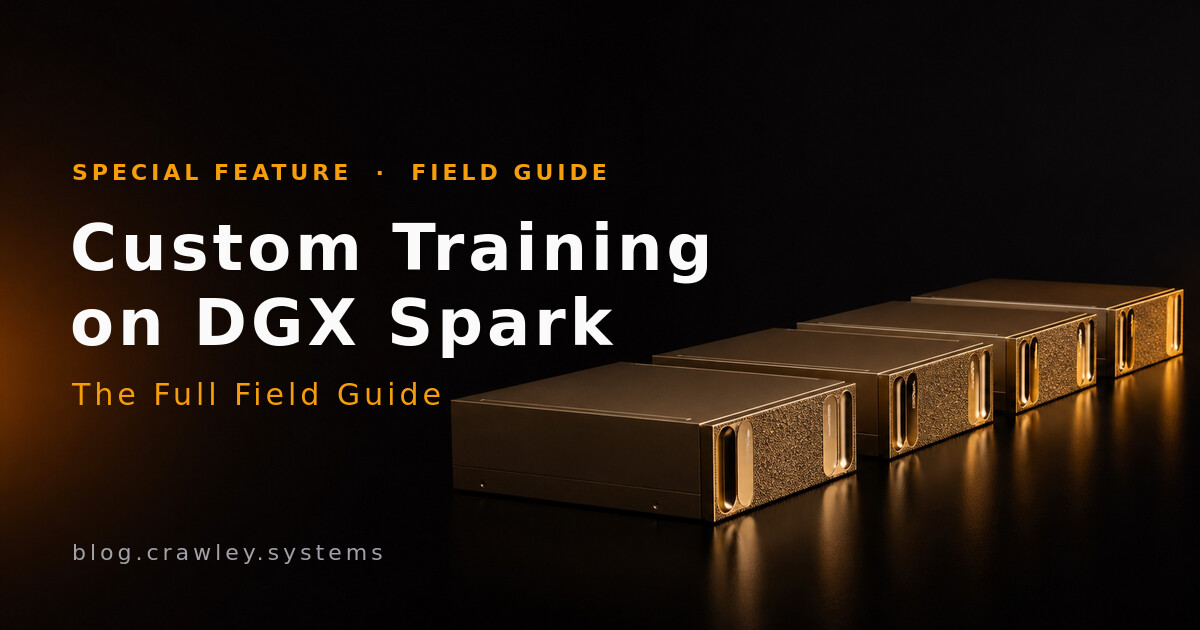
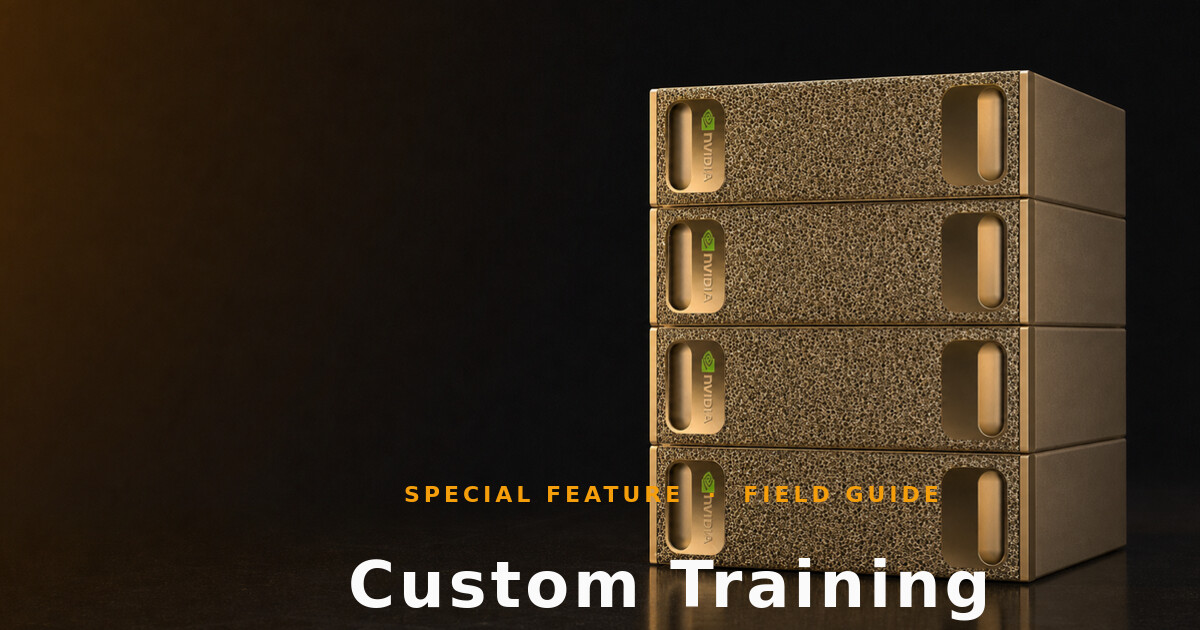
special: chart geometry fixes + reference-based spark artwork
- bar charts: bars now render in a fixed-width area per row so every row
  shares the same scale; value labels positioned after each bar's end
- 128 GB capacity line lands at exactly 128/136 of the bar area, stronger
  amber dashed stroke, brighter caption
- MoE bar extends across the card (natural-width label)
- hero + social banner regenerated from real DGX Spark reference photos:
  four units in a vertical stack, hero image now fills the right column

diff --git a/special/dgx-spark-training-field-guide.html b/special/dgx-spark-training-field-guide.html
@@ -66,12 +66,14 @@ header.hero{border-bottom:1px solid var(--grid);
   background:
     radial-gradient(ellipse 90% 130% at 70% -30%, var(--accent-glow), transparent),
     repeating-linear-gradient(90deg, transparent 0 79px, color-mix(in oklab, var(--grid) 55%, transparent) 79px 80px)}
-.hero-in{max-width:1120px;margin:0 auto;padding:72px 24px 48px;position:relative;
-  display:grid;grid-template-columns:minmax(0,1fr) 340px;gap:40px;align-items:center}
-.hero-img{width:100%;border-radius:16px;border:1px solid var(--ring);
-  box-shadow:0 0 48px var(--accent-glow);align-self:center}
+.hero-in{max-width:1120px;margin:0 auto;padding:56px 24px 40px;position:relative;
+  display:grid;grid-template-columns:minmax(0,1fr) clamp(360px,42%,520px);gap:40px;align-items:center}
+.hero-img{width:100%;max-height:none;align-self:center;
+  filter:drop-shadow(0 0 56px var(--accent-glow));
+  -webkit-mask-image:radial-gradient(ellipse 78% 86% at 50% 50%, #000 55%, transparent 88%);
+  mask-image:radial-gradient(ellipse 78% 86% at 50% 50%, #000 55%, transparent 88%)}
 .hero-note{max-width:62ch;color:var(--muted);font-size:.88em;margin-top:10px}
-@media(max-width:900px){.hero-in{grid-template-columns:minmax(0,1fr)}.hero-img{max-width:340px;order:-1}}
+@media(max-width:900px){.hero-in{grid-template-columns:minmax(0,1fr)}.hero-img{max-width:380px;max-height:480px;order:-1;justify-self:center}}
 .hero-kicker{display:flex;align-items:center;gap:8px;font-size:.78em;letter-spacing:.18em;text-transform:uppercase;color:var(--accent);font-weight:700}.hero-kicker .dot{width:8px;height:8px;border-radius:50%;background:var(--accent);box-shadow:0 0 10px var(--accent);animation:pulse 2.4s infinite}@keyframes pulse{0%,100%{opacity:1}50%{opacity:.35}}
 h1{font-size:clamp(1.7em,4vw,2.6em);line-height:1.15;margin:.35em 0 .5em;max-width:20ch;
   font-weight:750;letter-spacing:-.015em}
@@ -132,17 +134,21 @@ figure.viz svg{width:100%;height:auto;display:block}
 .hb{display:flex;flex-direction:column;gap:9px;position:relative;padding:4px 0}
 .hb-row{display:flex;align-items:center;gap:10px}
 .hb-label{flex:0 0 var(--hb-lab);font-size:.8em;color:var(--ink2);text-align:right;line-height:1.3}
-.hb-track{flex:1;display:flex;align-items:center;gap:2px;min-width:0}
+.hb-track{flex:1;position:relative;display:flex;align-items:center;min-width:0}
+.hb-bars{width:calc(100% - var(--hb-valw));display:flex;align-items:center;gap:2px}
 .hb-bar{height:14px;border-radius:0 4px 4px 0;min-width:3px;position:relative}
-.hb-track .hb-bar:not(:first-child){border-radius:2px 4px 4px 2px}
+.hb-bars .hb-bar:not(:first-child){border-radius:2px 4px 4px 2px}
 .hb-tall .hb-bar{height:22px}
 .hb-ghost{background:var(--grid)!important}
-.hb-val{font-size:.78em;color:var(--muted);white-space:nowrap;padding-left:6px;
+.hb-val{position:absolute;top:50%;transform:translateY(-50%);
+  font-size:.78em;color:var(--muted);white-space:nowrap;
   font-variant-numeric:tabular-nums}
+.hb-auto .hb-label{flex:0 0 auto}
 .hb-stacked{padding-bottom:26px}
-.hb-cap{position:absolute;top:0;bottom:22px;border-left:2px dashed var(--axis);pointer-events:none}
-.hb-cap span{position:absolute;bottom:-20px;left:-4px;transform:translateX(-100%);
-  font-size:.72em;color:var(--muted);white-space:nowrap}
+.hb-cap{position:absolute;top:0;bottom:26px;border-left:2px dashed var(--accent-dim);
+  opacity:.85;pointer-events:none}
+.hb-cap span{position:absolute;bottom:-20px;left:-6px;transform:translateX(-100%);
+  font-size:.74em;font-weight:600;color:var(--ink2);white-space:nowrap}
 @media(max-width:640px){:root{--hb-lab:110px}}
 
 .chips{display:flex;flex-wrap:wrap;gap:6px 16px;margin-top:12px;font-size:.78em;color:var(--ink2)}
@@ -263,7 +269,7 @@ figure.viz svg{width:100%;height:auto;display:block}
 <p>Every modern LLM is a <strong>transformer</strong>, an architecture from the 2017 paper <a href="https://arxiv.org/abs/1706.03762" target="_blank" rel="noopener"><em>Attention Is All You Need</em></a>. You don't need the math, but the vocabulary shows up everywhere, so here's the tour:</p>
 <ul><li><strong>Embedding</strong>: the lookup table that turns each token into a vector (a list of ~2,000–16,000 numbers) the network can process.</li><li><strong>Attention</strong>: the mechanism that lets each token "look at" every previous token and decide which ones matter for predicting what comes next. This is the magic ingredient, it's how the model connects "her" back to "Alice" from three paragraphs ago.</li><li><strong>Attention heads</strong>: attention runs many times in parallel with different learned "perspectives"; each parallel copy is a head. <strong>MHA</strong> (Multi-Head Attention) is the vanilla version; <strong>GQA</strong> (Grouped-Query Attention) and <strong>MLA</strong> (Multi-head Latent Attention, what Kimi/DeepSeek use, you've seen <code>TRITON_MLA</code> in the vLLM logs) are memory-saving refinements.</li><li><strong>FFN / MLP</strong> (Feed-Forward Network / Multi-Layer Perceptron): the other half of each layer, a plain "multiply by big matrices" block where most of the parameters live.</li><li><strong>Layers / blocks</strong>: one attention + one FFN = a block; models stack 24–100+ of them.</li><li><strong>KV cache</strong> (Key-Value cache): during generation, the model caches per-token attention data so it doesn't recompute the whole history for every new token. This is what eats your serving memory, vLLM's "KV cache: 763,840 tokens" log line is this.</li><li><strong>MoE</strong> (<strong>Mixture of Experts</strong>): instead of one FFN per layer, have many ("experts") and route each token to a few of them. You get a huge parameter count with modest compute per token, Kimi K2.6 is 519B parameters <em>total</em> but only activates ~30B per token. This is why it's fast <em>enough</em> on your Sparks. Dense models (Llama, Qwen-dense) activate everything, always.</li></ul>
 <aside class="callout res"><span class="co-icon">📚</span><span class="co-body"><span class="co-label">Deeper dive</span>Best visual explainer: <a href="https://jalammar.github.io/illustrated-transformer/" target="_blank" rel="noopener">The Illustrated Transformer</a> by Jay Alammar. Best interactive: <a href="https://bbycroft.net/llm" target="_blank" rel="noopener">LLM Visualization</a> by Brendan Bycroft, a 3D walkthrough of a real model's internals. For MoE: <a href="https://huggingface.co/blog/moe" target="_blank" rel="noopener">HF's MoE explainer</a>.</span></aside>
-<figure class="viz"><figcaption><span class="viz-title">Why MoE is fast <em>enough</em> here</span><span class="viz-sub">Mixture-of-Experts: huge total parameter count, modest per-token compute</span></figcaption><div class="hb"><div class="hb-row"><span class="hb-label">Kimi K2.6</span><span class="hb-track hb-tall"><span class="hb-bar" data-tip="Active per token: ~30B params (routed experts + shared)" style="width:5.8%;background:var(--s1)"></span><span class="hb-bar hb-ghost" data-tip="Parked experts: loaded in memory, idle for this token" style="width:94.2%"></span><span class="hb-val">519B total</span></span></div></div><div class="chips"><span class="chip"><i style="background:var(--s1)"></i>~30B active per token (5.8%)</span><span class="chip"><i class="chip-ghost"></i>489B parked (still resident in memory)</span></div><p class="viz-note">Only active weights are streamed per token, so decode speed scales with the 30B, while capacity scales with the 519B.</p></figure>
+<figure class="viz"><figcaption><span class="viz-title">Why MoE is fast <em>enough</em> here</span><span class="viz-sub">Mixture-of-Experts: huge total parameter count, modest per-token compute</span></figcaption><div class="hb hb-auto" style="--hb-valw:86px"><div class="hb-row"><span class="hb-label">Kimi K2.6</span><span class="hb-track hb-tall"><span class="hb-bars"><span class="hb-bar" data-tip="Active per token: ~30B params (routed experts + shared)" style="width:calc(5.8% - 1px);background:var(--s1)"></span><span class="hb-bar hb-ghost" data-tip="Parked experts: loaded in memory, idle for this token" style="width:calc(94.2% - 1px)"></span></span><span class="hb-val" style="left:calc(100% - var(--hb-valw) + 8px)">519B total</span></span></div></div><div class="chips"><span class="chip"><i style="background:var(--s1)"></i>~30B active per token (5.8%)</span><span class="chip"><i class="chip-ghost"></i>489B parked (still resident in memory)</span></div><p class="viz-note">Only active weights are streamed per token, so decode speed scales with the 30B, while capacity scales with the 519B.</p></figure>
 </section>
 <section class="part" id="part-ii-your-hardware-demystified"><div class="eyebrow">Part II</div><h2>Your hardware, demystified</h2>
 <h3 id="ii1-what-a-gb10-actually-is" class="">II.1 What a GB10 actually is</h3>
@@ -275,7 +281,7 @@ figure.viz svg{width:100%;height:auto;display:block}
 <p>Here's the insight that explains all of your benchmarking results: for LLM work, <strong>bandwidth is usually the bottleneck, not FLOPs</strong>. To generate one token, the model must read <em>every active weight</em> once. Kimi's ~30B active params in 4-bit ≈ 15 GB per token per node → 273/15 ≈ 18 tokens/s theoretical → you measured 15. The math checks out; the GPU's compute units spend most of their time waiting for memory.</p>
 <p>Training has the same character but reads <em>and writes</em> far more data per step (weights + gradients + optimizer state, see Part V.1). A datacenter <strong>H100</strong> has 3,350 GB/s, 12× your bandwidth, which is why we're not pretraining Llama here. But for LoRA finetunes of small-to-mid models, 273 GB/s is entirely serviceable.</p>
 <aside class="callout link"><span class="co-icon">🔗</span><span class="co-body"><span class="co-label">Reference</span>The canonical essay on this: <a href="https://horace.io/brrr_intro.html" target="_blank" rel="noopener">Making Deep Learning Go Brrrr From First Principles</a> by Horace He, explains compute-bound vs memory-bound vs overhead-bound intuitively.</span></aside>
-<figure class="viz"><figcaption><span class="viz-title">Bandwidth is the bottleneck, not FLOPs</span><span class="viz-sub">Memory bandwidth, GB/s, every active weight must be streamed once per generated token</span></figcaption><div class="tiles"><div class="tile"><span class="tile-v">~15 GB</span><span class="tile-l">weights read per token<br>(30B active × 0.5 B/param)</span></div><div class="tile"><span class="tile-v">≈ 18 tok/s</span><span class="tile-l">theoretical ceiling<br>273 GB/s ÷ 15 GB</span></div><div class="tile"><span class="tile-v">15 tok/s</span><span class="tile-l">measured decode<br>the math checks out</span></div></div><div class="hb"><div class="hb-row"><span class="hb-label">Spark fabric (RoCE)</span><span class="hb-track"><span class="hb-bar" data-tip="ConnectX-7 · 200 Gb/s ≈ 25 GB/s" style="width:0.75%;background:var(--sq2)"></span><span class="hb-val">25 GB/s</span></span></div><div class="hb-row"><span class="hb-label">GB10 unified LPDDR5X</span><span class="hb-track"><span class="hb-bar" data-tip="One Spark's memory bandwidth, the number that governs everything" style="width:8.15%;background:var(--sq4)"></span><span class="hb-val">273 GB/s</span></span></div><div class="hb-row"><span class="hb-label">H100 HBM3 (datacenter)</span><span class="hb-track"><span class="hb-bar" data-tip="12× the GB10, why nobody pretrains Llama on a Spark" style="width:100.00%;background:var(--sq6)"></span><span class="hb-val">3,350 GB/s</span></span></div></div><p class="viz-note">Same measure, ordered magnitude → one amber ramp. The compute units mostly wait on memory.</p></figure>
+<figure class="viz"><figcaption><span class="viz-title">Bandwidth is the bottleneck, not FLOPs</span><span class="viz-sub">Memory bandwidth, GB/s, every active weight must be streamed once per generated token</span></figcaption><div class="tiles"><div class="tile"><span class="tile-v">~15 GB</span><span class="tile-l">weights read per token<br>(30B active × 0.5 B/param)</span></div><div class="tile"><span class="tile-v">≈ 18 tok/s</span><span class="tile-l">theoretical ceiling<br>273 GB/s ÷ 15 GB</span></div><div class="tile"><span class="tile-v">15 tok/s</span><span class="tile-l">measured decode<br>the math checks out</span></div></div><div class="hb " style="--hb-valw:90px"><div class="hb-row"><span class="hb-label">Spark fabric (RoCE)</span><span class="hb-track"><span class="hb-bars"><span class="hb-bar" data-tip="ConnectX-7 · 200 Gb/s ≈ 25 GB/s" style="width:0.75%;background:var(--sq2)"></span></span><span class="hb-val" style="left:calc((100% - var(--hb-valw)) * 0.0075 + 8px)">25 GB/s</span></span></div><div class="hb-row"><span class="hb-label">GB10 unified LPDDR5X</span><span class="hb-track"><span class="hb-bars"><span class="hb-bar" data-tip="One Spark's memory bandwidth, the number that governs everything" style="width:8.15%;background:var(--sq4)"></span></span><span class="hb-val" style="left:calc((100% - var(--hb-valw)) * 0.0815 + 8px)">273 GB/s</span></span></div><div class="hb-row"><span class="hb-label">H100 HBM3 (datacenter)</span><span class="hb-track"><span class="hb-bars"><span class="hb-bar" data-tip="12× the GB10, why nobody pretrains Llama on a Spark" style="width:100.00%;background:var(--sq6)"></span></span><span class="hb-val" style="left:calc((100% - var(--hb-valw)) * 1.0000 + 8px)">3,350 GB/s</span></span></div></div><p class="viz-note">Same measure, ordered magnitude → one amber ramp. The compute units mostly wait on memory.</p></figure>
 <h3 id="ii3-sm-121-cuda-and-why-youve-been-patching-kernels" class="">II.3 sm_121, CUDA, and why you've been patching kernels</h3>
 <ul><li><strong>CUDA</strong> (<strong>Compute Unified Device Architecture</strong>): NVIDIA's programming platform for GPUs. Everything, PyTorch, vLLM, our training, compiles down to CUDA.</li><li><strong>Compute capability / sm_XX</strong>: each GPU generation has a version number ("sm" = streaming multiprocessor). H100 = sm_90, RTX 5090 = sm_120, <strong>GB10 = sm_121</strong>. Libraries ship pre-compiled kernels per sm; sm_121 is new and niche enough that you've already lived the consequences, the Triton shared-memory patch and the DeepGEMM sm_121 blocker from the Kimi/GLM saga were both "nobody compiled for this chip yet" problems. Expect one or two of the same in training-land (bitsandbytes, flash-attention), which is why validating the stack is Stage 0 of the curriculum.</li><li><strong>Kernel</strong>: a small GPU program (e.g., "multiply these matrices"). <strong>Triton</strong> is a Python-like language for writing them (used heavily inside vLLM and PyTorch).</li></ul>
 <h3 id="ii4-precision-formats-fp32-nvfp4" class="">II.4 Precision formats: FP32 → NVFP4</h3>
@@ -283,10 +289,10 @@ figure.viz svg{width:100%;height:auto;display:block}
 <div class="table-wrap"><table><thead><tr><th>Format</th><th>Bytes/param</th><th>Role</th></tr></thead><tbody><tr><td><strong>FP32</strong> (single precision)</td><td>4</td><td>Classic default; today only optimizer internals</td></tr><tr><td><strong>TF32</strong></td><td>~2.4 effective</td><td>NVIDIA's FP32-lite for matmuls; automatic</td></tr><tr><td><strong>FP16</strong> (half)</td><td>2</td><td>Older mixed-precision; can overflow (numeric range too small)</td></tr><tr><td><strong>BF16</strong> (bfloat16, "brain float")</td><td>2</td><td><strong>The training standard.</strong> Same range as FP32, less precision, stable and fast</td></tr><tr><td><strong>FP8</strong></td><td>1</td><td>Serving + cutting-edge training; your KV caches run fp8</td></tr><tr><td><strong>FP4 / NVFP4</strong></td><td>0.5</td><td>4-bit; <strong>NVFP4</strong> is NVIDIA's block-scaled variant, every model you serve (Kimi, GLM, V4-Flash) is NVFP4-quantized</td></tr><tr><td><strong>INT8/INT4</strong></td><td>1 / 0.5</td><td>Integer quantization (GPTQ/AWQ world, see Part VI)</td></tr><tr><td><strong>NF4</strong> (NormalFloat-4)</td><td>0.5</td><td>4-bit format designed for QLoRA finetuning (Part V.4)</td></tr></tbody></table></div>
 <p><strong>Mixed precision</strong> = train with bf16 weights/activations but keep a master FP32 copy inside the optimizer for stability. Frameworks do this automatically; you'll just see <code>bf16=True</code> in configs.</p>
 <aside class="callout link"><span class="co-icon">🔗</span><span class="co-body"><span class="co-label">Reference</span>Short and good: <a href="https://huggingface.co/docs/transformers/perf_train_gpu_one#mixed-precision" target="_blank" rel="noopener">HF's mixed-precision docs</a> · <a href="https://developer.nvidia.com/blog/introducing-nvfp4-for-efficient-and-accurate-low-precision-inference/" target="_blank" rel="noopener">NVIDIA on NVFP4</a></span></aside>
-<figure class="viz"><figcaption><span class="viz-title">The precision zoo, by weight</span><span class="viz-sub">Bytes per parameter, halve the bytes, halve the bandwidth per token</span></figcaption><div class="hb"><div class="hb-row"><span class="hb-label">FP32</span><span class="hb-track"><span class="hb-bar" data-tip="FP32: Classic default; today only optimizer internals" style="width:100.00%;background:var(--sq7)"></span><span class="hb-val">4 B/param · 8B model ≈ 32 GB</span></span></div><div class="hb-row"><span class="hb-label">TF32</span><span class="hb-track"><span class="hb-bar" data-tip="TF32: NVIDIA's FP32-lite for matmuls (effective bytes)" style="width:60.00%;background:var(--sq6)"></span><span class="hb-val">2.4 B/param</span></span></div><div class="hb-row"><span class="hb-label">BF16</span><span class="hb-track"><span class="hb-bar" data-tip="BF16: The training standard, FP32 range, less precision" style="width:50.00%;background:var(--sq5)"></span><span class="hb-val">2 B/param · 8B model ≈ 16 GB</span></span></div><div class="hb-row"><span class="hb-label">FP16</span><span class="hb-track"><span class="hb-bar" data-tip="FP16: Older mixed precision; can overflow" style="width:50.00%;background:var(--sq5)"></span><span class="hb-val">2 B/param · 8B model ≈ 16 GB</span></span></div><div class="hb-row"><span class="hb-label">FP8</span><span class="hb-track"><span class="hb-bar" data-tip="FP8: Serving + cutting-edge training; your KV caches" style="width:25.00%;background:var(--sq4)"></span><span class="hb-val">1 B/param · 8B model ≈ 8 GB</span></span></div><div class="hb-row"><span class="hb-label">INT8</span><span class="hb-track"><span class="hb-bar" data-tip="INT8: Integer quantization (GPTQ/AWQ world)" style="width:25.00%;background:var(--sq4)"></span><span class="hb-val">1 B/param · 8B model ≈ 8 GB</span></span></div><div class="hb-row"><span class="hb-label">NVFP4</span><span class="hb-track"><span class="hb-bar" data-tip="NVFP4: NVIDIA block-scaled 4-bit, your serving standard" style="width:12.50%;background:var(--sq2)"></span><span class="hb-val">0.5 B/param · 8B model ≈ 4 GB</span></span></div><div class="hb-row"><span class="hb-label">NF4</span><span class="hb-track"><span class="hb-bar" data-tip="NF4: NormalFloat-4, the QLoRA finetuning format" style="width:12.50%;background:var(--sq2)"></span><span class="hb-val">0.5 B/param · 8B model ≈ 4 GB</span></span></div><div class="hb-row"><span class="hb-label">INT4</span><span class="hb-track"><span class="hb-bar" data-tip="INT4: Integer 4-bit" style="width:12.50%;background:var(--sq2)"></span><span class="hb-val">0.5 B/param · 8B model ≈ 4 GB</span></span></div></div><p class="viz-note">One hue, light→dark with magnitude. An 8B model is a 32 GB download in FP32 and a 4 GB one in NVFP4.</p></figure>
+<figure class="viz"><figcaption><span class="viz-title">The precision zoo, by weight</span><span class="viz-sub">Bytes per parameter, halve the bytes, halve the bandwidth per token</span></figcaption><div class="hb " style="--hb-valw:200px"><div class="hb-row"><span class="hb-label">FP32</span><span class="hb-track"><span class="hb-bars"><span class="hb-bar" data-tip="FP32: Classic default; today only optimizer internals" style="width:100.00%;background:var(--sq7)"></span></span><span class="hb-val" style="left:calc((100% - var(--hb-valw)) * 1.0000 + 8px)">4 B/param · 8B model ≈ 32 GB</span></span></div><div class="hb-row"><span class="hb-label">TF32</span><span class="hb-track"><span class="hb-bars"><span class="hb-bar" data-tip="TF32: NVIDIA's FP32-lite for matmuls (effective bytes)" style="width:60.00%;background:var(--sq6)"></span></span><span class="hb-val" style="left:calc((100% - var(--hb-valw)) * 0.6000 + 8px)">2.4 B/param</span></span></div><div class="hb-row"><span class="hb-label">BF16</span><span class="hb-track"><span class="hb-bars"><span class="hb-bar" data-tip="BF16: The training standard, FP32 range, less precision" style="width:50.00%;background:var(--sq5)"></span></span><span class="hb-val" style="left:calc((100% - var(--hb-valw)) * 0.5000 + 8px)">2 B/param · 8B model ≈ 16 GB</span></span></div><div class="hb-row"><span class="hb-label">FP16</span><span class="hb-track"><span class="hb-bars"><span class="hb-bar" data-tip="FP16: Older mixed precision; can overflow" style="width:50.00%;background:var(--sq5)"></span></span><span class="hb-val" style="left:calc((100% - var(--hb-valw)) * 0.5000 + 8px)">2 B/param · 8B model ≈ 16 GB</span></span></div><div class="hb-row"><span class="hb-label">FP8</span><span class="hb-track"><span class="hb-bars"><span class="hb-bar" data-tip="FP8: Serving + cutting-edge training; your KV caches" style="width:25.00%;background:var(--sq4)"></span></span><span class="hb-val" style="left:calc((100% - var(--hb-valw)) * 0.2500 + 8px)">1 B/param · 8B model ≈ 8 GB</span></span></div><div class="hb-row"><span class="hb-label">INT8</span><span class="hb-track"><span class="hb-bars"><span class="hb-bar" data-tip="INT8: Integer quantization (GPTQ/AWQ world)" style="width:25.00%;background:var(--sq4)"></span></span><span class="hb-val" style="left:calc((100% - var(--hb-valw)) * 0.2500 + 8px)">1 B/param · 8B model ≈ 8 GB</span></span></div><div class="hb-row"><span class="hb-label">NVFP4</span><span class="hb-track"><span class="hb-bars"><span class="hb-bar" data-tip="NVFP4: NVIDIA block-scaled 4-bit, your serving standard" style="width:12.50%;background:var(--sq2)"></span></span><span class="hb-val" style="left:calc((100% - var(--hb-valw)) * 0.1250 + 8px)">0.5 B/param · 8B model ≈ 4 GB</span></span></div><div class="hb-row"><span class="hb-label">NF4</span><span class="hb-track"><span class="hb-bars"><span class="hb-bar" data-tip="NF4: NormalFloat-4, the QLoRA finetuning format" style="width:12.50%;background:var(--sq2)"></span></span><span class="hb-val" style="left:calc((100% - var(--hb-valw)) * 0.1250 + 8px)">0.5 B/param · 8B model ≈ 4 GB</span></span></div><div class="hb-row"><span class="hb-label">INT4</span><span class="hb-track"><span class="hb-bars"><span class="hb-bar" data-tip="INT4: Integer 4-bit" style="width:12.50%;background:var(--sq2)"></span></span><span class="hb-val" style="left:calc((100% - var(--hb-valw)) * 0.1250 + 8px)">0.5 B/param · 8B model ≈ 4 GB</span></span></div></div><p class="viz-note">One hue, light→dark with magnitude. An 8B model is a 32 GB download in FP32 and a 4 GB one in NVFP4.</p></figure>
 <h3 id="ii5-the-fabric-how-4-sparks-become-one-machine" class="">II.5 The fabric: how 4 Sparks become one machine</h3>
 <ul><li><strong>ConnectX-7</strong>: the 200 Gb/s NICs (Network Interface Cards) in each Spark.</li><li><strong>RoCE</strong> (<strong>RDMA over Converged Ethernet</strong>): lets one machine read/write another's memory directly (<strong>RDMA</strong> = Remote Direct Memory Access) without bothering the CPU, this is the <code>rocep1s0f1</code> interface in your launch scripts.</li><li><strong>NCCL</strong> (<strong>NVIDIA Collective Communications Library</strong>, "nickel"): the library every distributed job uses to move tensors between GPUs, same NCCL whether it's vLLM tensor-parallel serving or our future FSDP training. The "collectives" are named operations: <strong>all-reduce</strong> (everyone averages their copies, the heartbeat of data-parallel training), <strong>all-gather</strong>, <strong>broadcast</strong>, <strong>reduce-scatter</strong>.</li><li>200 Gb/s ≈ 25 GB/s ≈ 1/11th of local memory bandwidth. Rule of thumb: the fabric is fine for exchanging <em>gradients</em> (DDP) and <em>shards</em> (FSDP), painful for anything chattier, one reason multi-node graph capture never worked for GLM.</li></ul>
-<figure class="viz"><figcaption><span class="viz-title">Four machines, one estate</span><span class="viz-sub">NCCL moves tensors over the fabric, the ratio below decides which parallelism strategies make sense</span></figcaption><svg viewBox="0 0 660 240" role="img" aria-label="Four Sparks connected by a 200 gigabit RoCE fabric"><line x1="160" y1="62" x2="330" y2="120" class="es-link"/><line x1="500" y1="62" x2="330" y2="120" class="es-link"/><line x1="160" y1="178" x2="330" y2="120" class="es-link"/><line x1="500" y1="178" x2="330" y2="120" class="es-link"/><rect x="270" y="96" width="120" height="48" rx="24" class="es-switch"/><text x="330" y="116" text-anchor="middle" class="es-name">200 GbE</text><text x="330" y="132" text-anchor="middle" class="es-sub">RoCE / RDMA</text><rect x="85" y="20" width="150" height="64" rx="10" class="es-node"/><text x="160" y="46" text-anchor="middle" class="es-name">spark-1</text><text x="160" y="66" text-anchor="middle" class="es-sub">GB10 · 128 GB · 273 GB/s</text><rect x="425" y="20" width="150" height="64" rx="10" class="es-node"/><text x="500" y="46" text-anchor="middle" class="es-name">spark-2</text><text x="500" y="66" text-anchor="middle" class="es-sub">GB10 · 128 GB · 273 GB/s</text><rect x="85" y="156" width="150" height="64" rx="10" class="es-node"/><text x="160" y="182" text-anchor="middle" class="es-name">spark-3</text><text x="160" y="202" text-anchor="middle" class="es-sub">GB10 · 128 GB · 273 GB/s</text><rect x="425" y="156" width="150" height="64" rx="10" class="es-node"/><text x="500" y="182" text-anchor="middle" class="es-name">spark-4</text><text x="500" y="202" text-anchor="middle" class="es-sub">GB10 · 128 GB · 273 GB/s</text></svg><div class="hb"><div class="hb-row"><span class="hb-label">inside a node</span><span class="hb-track"><span class="hb-bar" data-tip="Local unified-memory bandwidth" style="width:100.00%;background:var(--sq5)"></span><span class="hb-val">273 GB/s</span></span></div><div class="hb-row"><span class="hb-label">across the fabric</span><span class="hb-track"><span class="hb-bar" data-tip="200 Gb/s ConnectX-7 ≈ 25 GB/s, fine for gradients &amp; shards, painful for chatty parallelism" style="width:9.16%;background:var(--sq2)"></span><span class="hb-val">25 GB/s (≈1/11th)</span></span></div></div></figure>
+<figure class="viz"><figcaption><span class="viz-title">Four machines, one estate</span><span class="viz-sub">NCCL moves tensors over the fabric, the ratio below decides which parallelism strategies make sense</span></figcaption><svg viewBox="0 0 660 240" role="img" aria-label="Four Sparks connected by a 200 gigabit RoCE fabric"><line x1="160" y1="62" x2="330" y2="120" class="es-link"/><line x1="500" y1="62" x2="330" y2="120" class="es-link"/><line x1="160" y1="178" x2="330" y2="120" class="es-link"/><line x1="500" y1="178" x2="330" y2="120" class="es-link"/><rect x="270" y="96" width="120" height="48" rx="24" class="es-switch"/><text x="330" y="116" text-anchor="middle" class="es-name">200 GbE</text><text x="330" y="132" text-anchor="middle" class="es-sub">RoCE / RDMA</text><rect x="85" y="20" width="150" height="64" rx="10" class="es-node"/><text x="160" y="46" text-anchor="middle" class="es-name">spark-1</text><text x="160" y="66" text-anchor="middle" class="es-sub">GB10 · 128 GB · 273 GB/s</text><rect x="425" y="20" width="150" height="64" rx="10" class="es-node"/><text x="500" y="46" text-anchor="middle" class="es-name">spark-2</text><text x="500" y="66" text-anchor="middle" class="es-sub">GB10 · 128 GB · 273 GB/s</text><rect x="85" y="156" width="150" height="64" rx="10" class="es-node"/><text x="160" y="182" text-anchor="middle" class="es-name">spark-3</text><text x="160" y="202" text-anchor="middle" class="es-sub">GB10 · 128 GB · 273 GB/s</text><rect x="425" y="156" width="150" height="64" rx="10" class="es-node"/><text x="500" y="182" text-anchor="middle" class="es-name">spark-4</text><text x="500" y="202" text-anchor="middle" class="es-sub">GB10 · 128 GB · 273 GB/s</text></svg><div class="hb " style="--hb-valw:110px"><div class="hb-row"><span class="hb-label">inside a node</span><span class="hb-track"><span class="hb-bars"><span class="hb-bar" data-tip="Local unified-memory bandwidth" style="width:100.00%;background:var(--sq5)"></span></span><span class="hb-val" style="left:calc((100% - var(--hb-valw)) * 1.0000 + 8px)">273 GB/s</span></span></div><div class="hb-row"><span class="hb-label">across the fabric</span><span class="hb-track"><span class="hb-bars"><span class="hb-bar" data-tip="200 Gb/s ConnectX-7 ≈ 25 GB/s, fine for gradients &amp; shards, painful for chatty parallelism" style="width:9.16%;background:var(--sq2)"></span></span><span class="hb-val" style="left:calc((100% - var(--hb-valw)) * 0.0916 + 8px)">25 GB/s (≈1/11th)</span></span></div></div></figure>
 </section>
 <section class="part" id="part-iii-the-training-loop-for-real-this-time"><div class="eyebrow">Part III</div><h2>The training loop, for real this time</h2>
 <p>This is the part to actually internalize. Every training framework, from nanoGPT's 300 lines to a trillion-parameter lab run, is this loop:</p>
@@ -344,7 +350,7 @@ figure.viz svg{width:100%;height:auto;display:block}
 <p>To fully finetune a model with N parameters using AdamW in bf16 mixed precision, you hold in memory:</p>
 <div class="table-wrap"><table><thead><tr><th>Component</th><th>Bytes/param</th><th>8B model</th></tr></thead><tbody><tr><td>Weights (bf16)</td><td>2</td><td>16 GB</td></tr><tr><td>Gradients (bf16)</td><td>2</td><td>16 GB</td></tr><tr><td>AdamW momentum (fp32)</td><td>4</td><td>32 GB</td></tr><tr><td>AdamW variance (fp32)</td><td>4</td><td>32 GB</td></tr><tr><td>FP32 master weights</td><td>4</td><td>32 GB</td></tr><tr><td><strong>Subtotal (states)</strong></td><td><strong>16</strong></td><td><strong>128 GB</strong></td></tr><tr><td>Activations</td><td>batch/seq-dependent</td><td>several–tens of GB</td></tr></tbody></table></div>
 <p>An 8B full finetune brushes right against one Spark's entire 128 GB before activations. A 70B is out of the question on any single machine. This table is <em>the</em> reason PEFT exists.</p>
-<figure class="viz"><figcaption><span class="viz-title">Where the gigabytes go</span><span class="viz-sub">Training-state memory for an 8B (AdamW, bf16 mixed precision) vs the PEFT escape hatches</span></figcaption><div class="hb hb-stacked"><div class="hb-row"><span class="hb-label">Full finetune · 8B</span><span class="hb-track hb-tall"><span class="hb-bar" data-tip="weights (bf16/NF4 base): 16 GB" style="width:11.76%;background:var(--s1)"></span><span class="hb-bar" data-tip="gradients (bf16): 16 GB" style="width:11.76%;background:var(--s2)"></span><span class="hb-bar" data-tip="Adam momentum (fp32): 32 GB" style="width:23.53%;background:var(--s3)"></span><span class="hb-bar" data-tip="Adam variance (fp32): 32 GB" style="width:23.53%;background:var(--s4)"></span><span class="hb-bar" data-tip="fp32 master weights: 32 GB" style="width:23.53%;background:var(--s5)"></span><span class="hb-bar" data-tip="adapters + activations: 8 GB" style="width:5.88%;background:var(--s6)"></span><span class="hb-val">≈136 GB, brushes one Spark's limit</span></span></div><div class="hb-row"><span class="hb-label">LoRA · 8B</span><span class="hb-track hb-tall"><span class="hb-bar" data-tip="weights (bf16/NF4 base): 16 GB" style="width:11.76%;background:var(--s1)"></span><span class="hb-bar" data-tip="adapters + activations: 4 GB" style="width:2.94%;background:var(--s6)"></span><span class="hb-val">≈20 GB</span></span></div><div class="hb-row"><span class="hb-label">QLoRA · 8B (NF4 base)</span><span class="hb-track hb-tall"><span class="hb-bar" data-tip="weights (bf16/NF4 base): 5 GB" style="width:3.68%;background:var(--s1)"></span><span class="hb-bar" data-tip="adapters + activations: 4 GB" style="width:2.94%;background:var(--s6)"></span><span class="hb-val">≈9 GB</span></span></div><div class="hb-row"><span class="hb-label">QLoRA · 70B (NF4 base)</span><span class="hb-track hb-tall"><span class="hb-bar" data-tip="weights (bf16/NF4 base): 38 GB" style="width:27.94%;background:var(--s1)"></span><span class="hb-bar" data-tip="adapters + activations: 6 GB" style="width:4.41%;background:var(--s6)"></span><span class="hb-val">≈44 GB, a 70B fits on one Spark</span></span></div><div class="hb-cap" style="left:calc(var(--hb-lab) + (100% - var(--hb-lab) - var(--hb-valw)) * 0.9412)"><span>one Spark · 128 GB</span></div></div><div class="chips"><span class="chip"><i style="background:var(--s1)"></i>weights (bf16/NF4 base)</span><span class="chip"><i style="background:var(--s2)"></i>gradients (bf16)</span><span class="chip"><i style="background:var(--s3)"></i>Adam momentum (fp32)</span><span class="chip"><i style="background:var(--s4)"></i>Adam variance (fp32)</span><span class="chip"><i style="background:var(--s5)"></i>fp32 master weights</span><span class="chip"><i style="background:var(--s6)"></i>adapters + activations</span></div><p class="viz-note">Gradients + optimizer states apply <em>only to trainable params</em>, freeze the base and 128 GB collapses to 20.</p></figure>
+<figure class="viz"><figcaption><span class="viz-title">Where the gigabytes go</span><span class="viz-sub">Training-state memory for an 8B (AdamW, bf16 mixed precision) vs the PEFT escape hatches</span></figcaption><div class="hb hb-stacked" style="--hb-valw:76px"><div class="hb-row"><span class="hb-label">Full finetune · 8B</span><span class="hb-track hb-tall"><span class="hb-bars"><span class="hb-bar" data-tip="weights (bf16/NF4 base): 16 GB" style="width:calc(11.76% - 1.67px);background:var(--s1)"></span><span class="hb-bar" data-tip="gradients (bf16): 16 GB" style="width:calc(11.76% - 1.67px);background:var(--s2)"></span><span class="hb-bar" data-tip="Adam momentum (fp32): 32 GB" style="width:calc(23.53% - 1.67px);background:var(--s3)"></span><span class="hb-bar" data-tip="Adam variance (fp32): 32 GB" style="width:calc(23.53% - 1.67px);background:var(--s4)"></span><span class="hb-bar" data-tip="fp32 master weights: 32 GB" style="width:calc(23.53% - 1.67px);background:var(--s5)"></span><span class="hb-bar" data-tip="adapters + activations: 8 GB" style="width:calc(5.88% - 1.67px);background:var(--s6)"></span></span><span class="hb-val" style="left:calc((100% - var(--hb-valw)) * 1.0000 + 8px)">≈136 GB</span></span></div><div class="hb-row"><span class="hb-label">LoRA · 8B</span><span class="hb-track hb-tall"><span class="hb-bars"><span class="hb-bar" data-tip="weights (bf16/NF4 base): 16 GB" style="width:calc(11.76% - 1.00px);background:var(--s1)"></span><span class="hb-bar" data-tip="adapters + activations: 4 GB" style="width:calc(2.94% - 1.00px);background:var(--s6)"></span></span><span class="hb-val" style="left:calc((100% - var(--hb-valw)) * 0.1471 + 8px)">≈20 GB</span></span></div><div class="hb-row"><span class="hb-label">QLoRA · 8B (NF4 base)</span><span class="hb-track hb-tall"><span class="hb-bars"><span class="hb-bar" data-tip="weights (bf16/NF4 base): 5 GB" style="width:calc(3.68% - 1.00px);background:var(--s1)"></span><span class="hb-bar" data-tip="adapters + activations: 4 GB" style="width:calc(2.94% - 1.00px);background:var(--s6)"></span></span><span class="hb-val" style="left:calc((100% - var(--hb-valw)) * 0.0662 + 8px)">≈9 GB</span></span></div><div class="hb-row"><span class="hb-label">QLoRA · 70B (NF4 base)</span><span class="hb-track hb-tall"><span class="hb-bars"><span class="hb-bar" data-tip="weights (bf16/NF4 base): 38 GB" style="width:calc(27.94% - 1.00px);background:var(--s1)"></span><span class="hb-bar" data-tip="adapters + activations: 6 GB" style="width:calc(4.41% - 1.00px);background:var(--s6)"></span></span><span class="hb-val" style="left:calc((100% - var(--hb-valw)) * 0.3235 + 8px)">≈44 GB</span></span></div><div class="hb-cap" style="left:calc(var(--hb-lab) + 10px + (100% - var(--hb-lab) - 10px - var(--hb-valw)) * 0.94118)"><span>one Spark · 128 GB</span></div></div><div class="chips"><span class="chip"><i style="background:var(--s1)"></i>weights (bf16/NF4 base)</span><span class="chip"><i style="background:var(--s2)"></i>gradients (bf16)</span><span class="chip"><i style="background:var(--s3)"></i>Adam momentum (fp32)</span><span class="chip"><i style="background:var(--s4)"></i>Adam variance (fp32)</span><span class="chip"><i style="background:var(--s5)"></i>fp32 master weights</span><span class="chip"><i style="background:var(--s6)"></i>adapters + activations</span></div><p class="viz-note">Gradients + optimizer states apply <em>only to trainable params</em>: freeze the base and the 8B full finetune, which brushes one Spark's 128 GB before activations, collapses to 20 GB. A QLoRA 70B fits on one Spark with room to spare.</p></figure>
 <h3 id="v2-lora-low-rank-adaptation" class="">V.2 LoRA, Low-Rank Adaptation</h3>
 <p><a href="https://arxiv.org/abs/2106.09685" target="_blank" rel="noopener">LoRA (2021)</a>'s idea: <strong>freeze</strong> the pretrained weights entirely. For each big weight matrix W (say 4096×4096 = 16.7M params), learn a <em>correction</em> ΔW, but force ΔW to be <strong>low-rank</strong>: the product of two skinny matrices, A (4096×r) and B (r×4096), with <strong>r</strong> (the <strong>rank</strong>) tiny, like 16. The corrected layer computes <code>Wx + BAx</code>.</p>
 <ul><li>Trainable params for that layer: 4096×16×2 = 131k, <strong>0.8%</strong> of the original.</li><li>The frozen base needs only its 2 bytes/param (no gradients, no optimizer state, those costs apply <em>only to trainable params</em>).</li><li>8B model + LoRA: 16 GB frozen base + a few hundred MB of adapter states + activations ≈ <strong>~20 GB</strong>. From 128+ GB to 20.</li></ul>